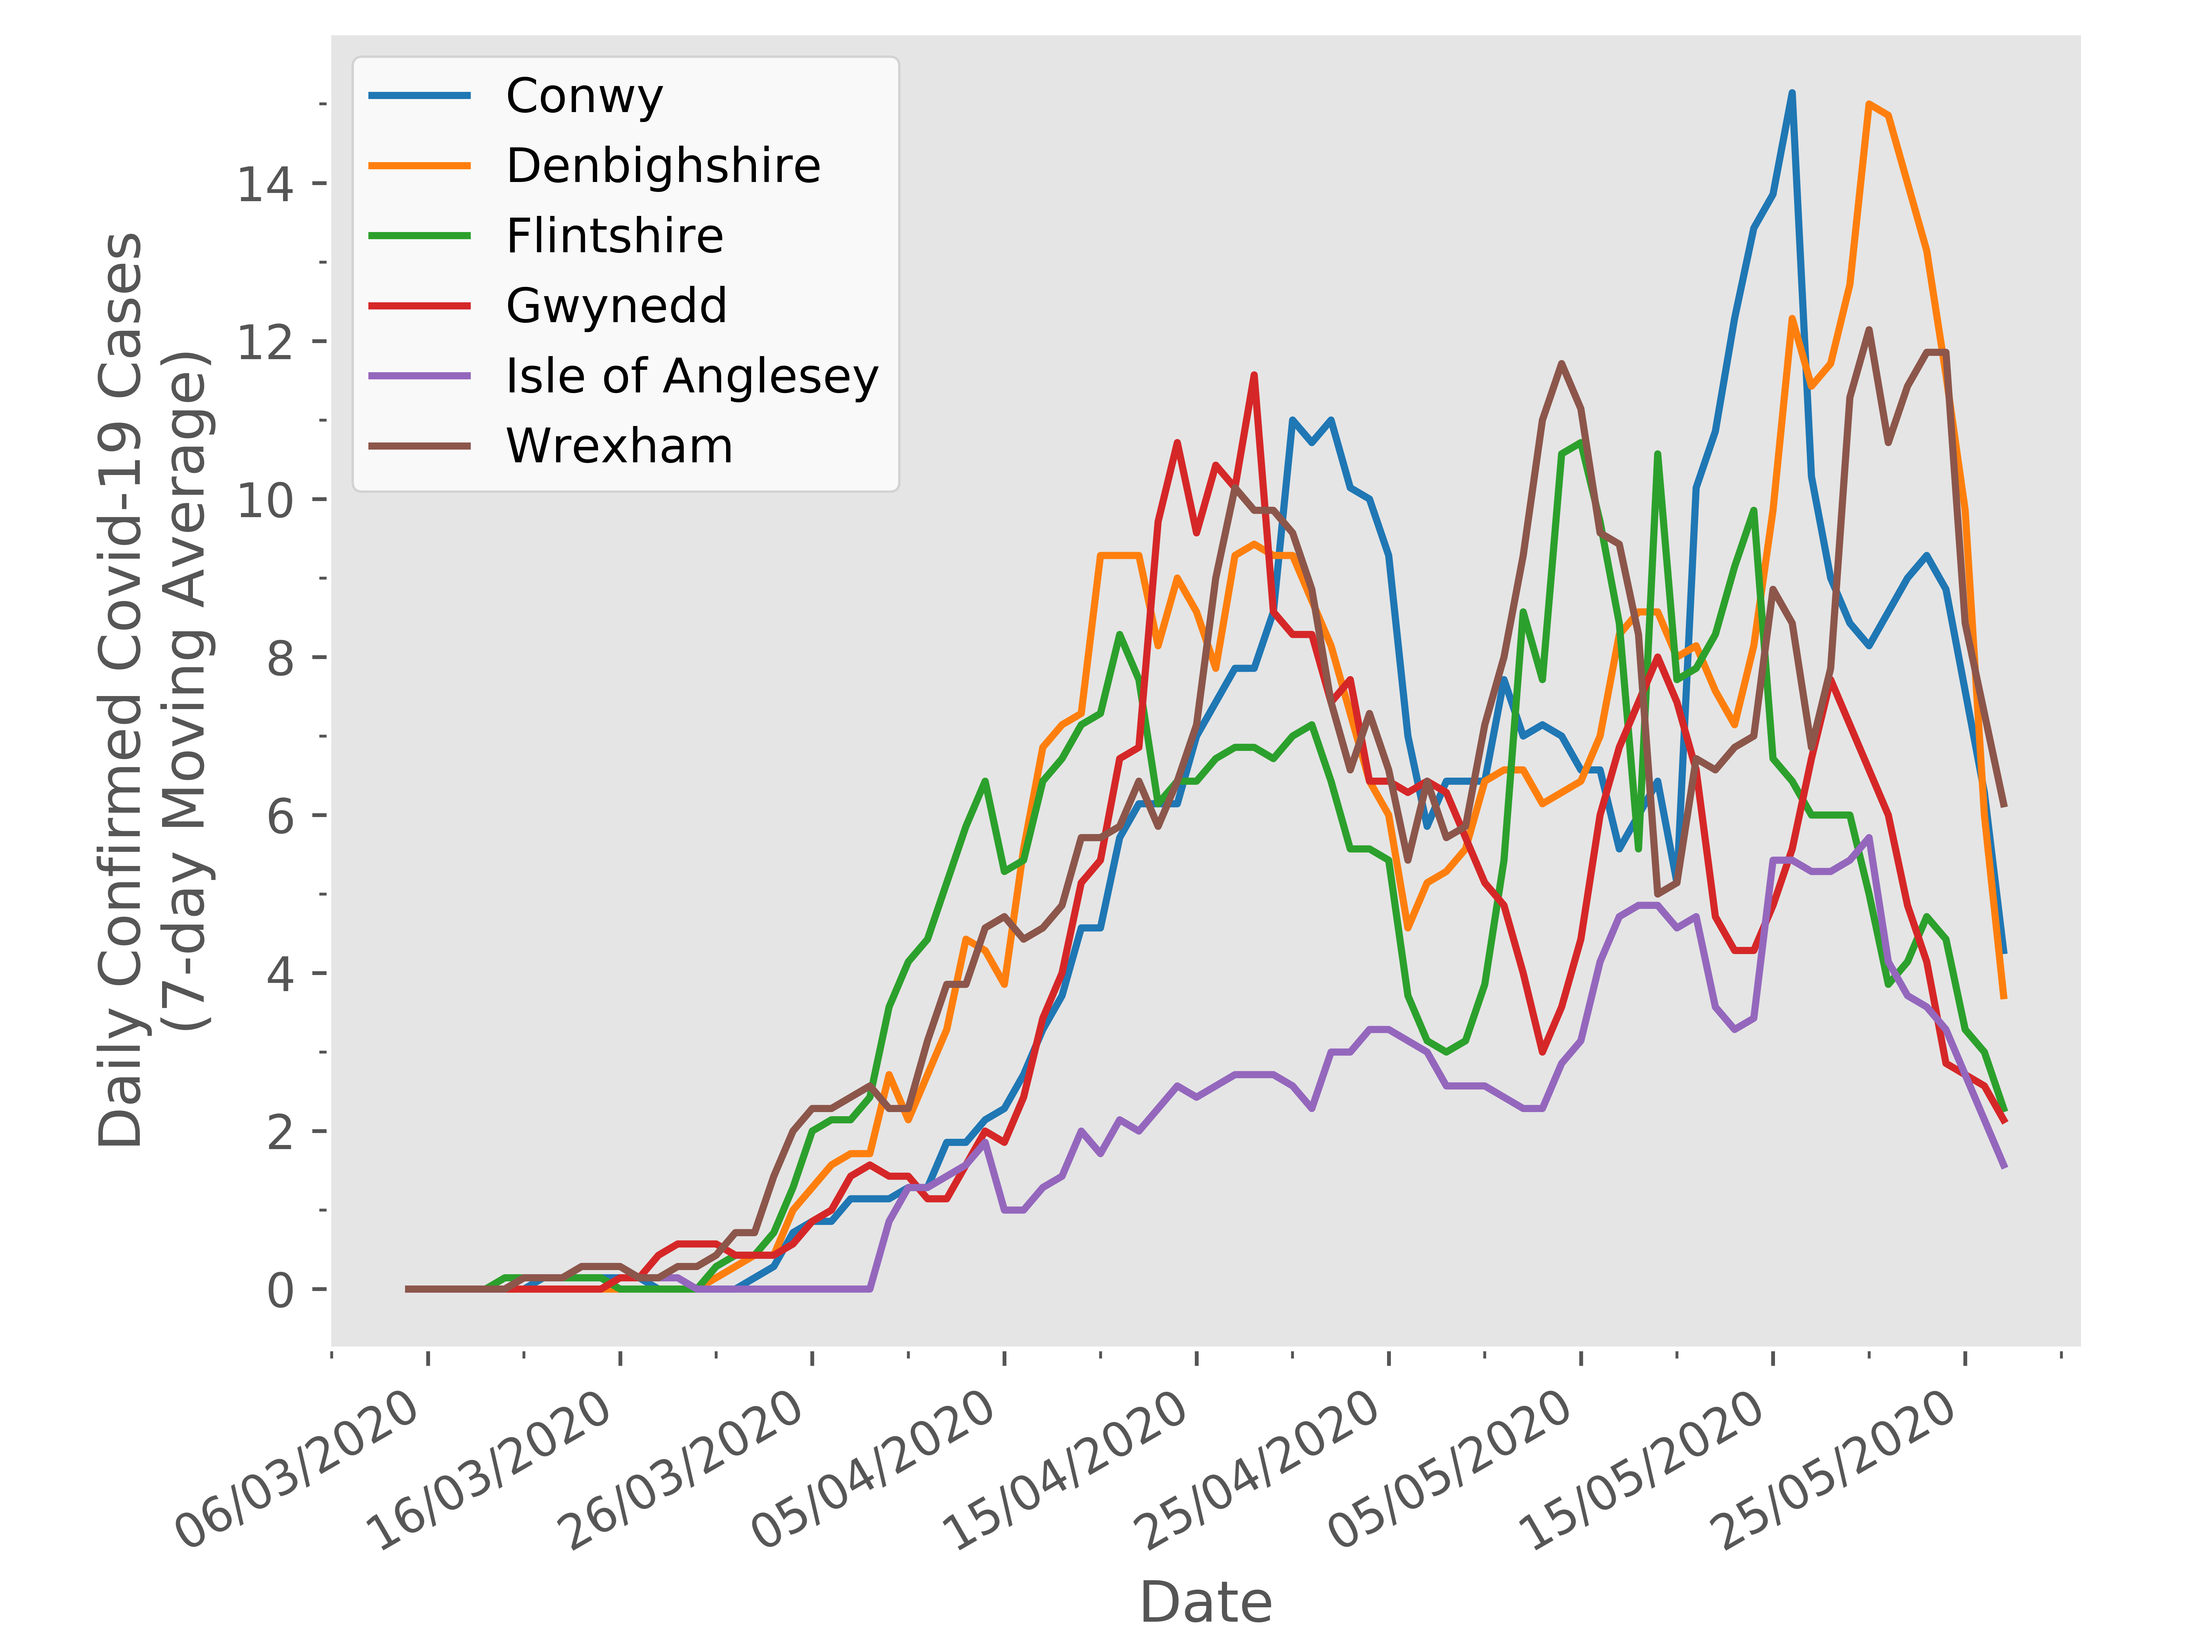
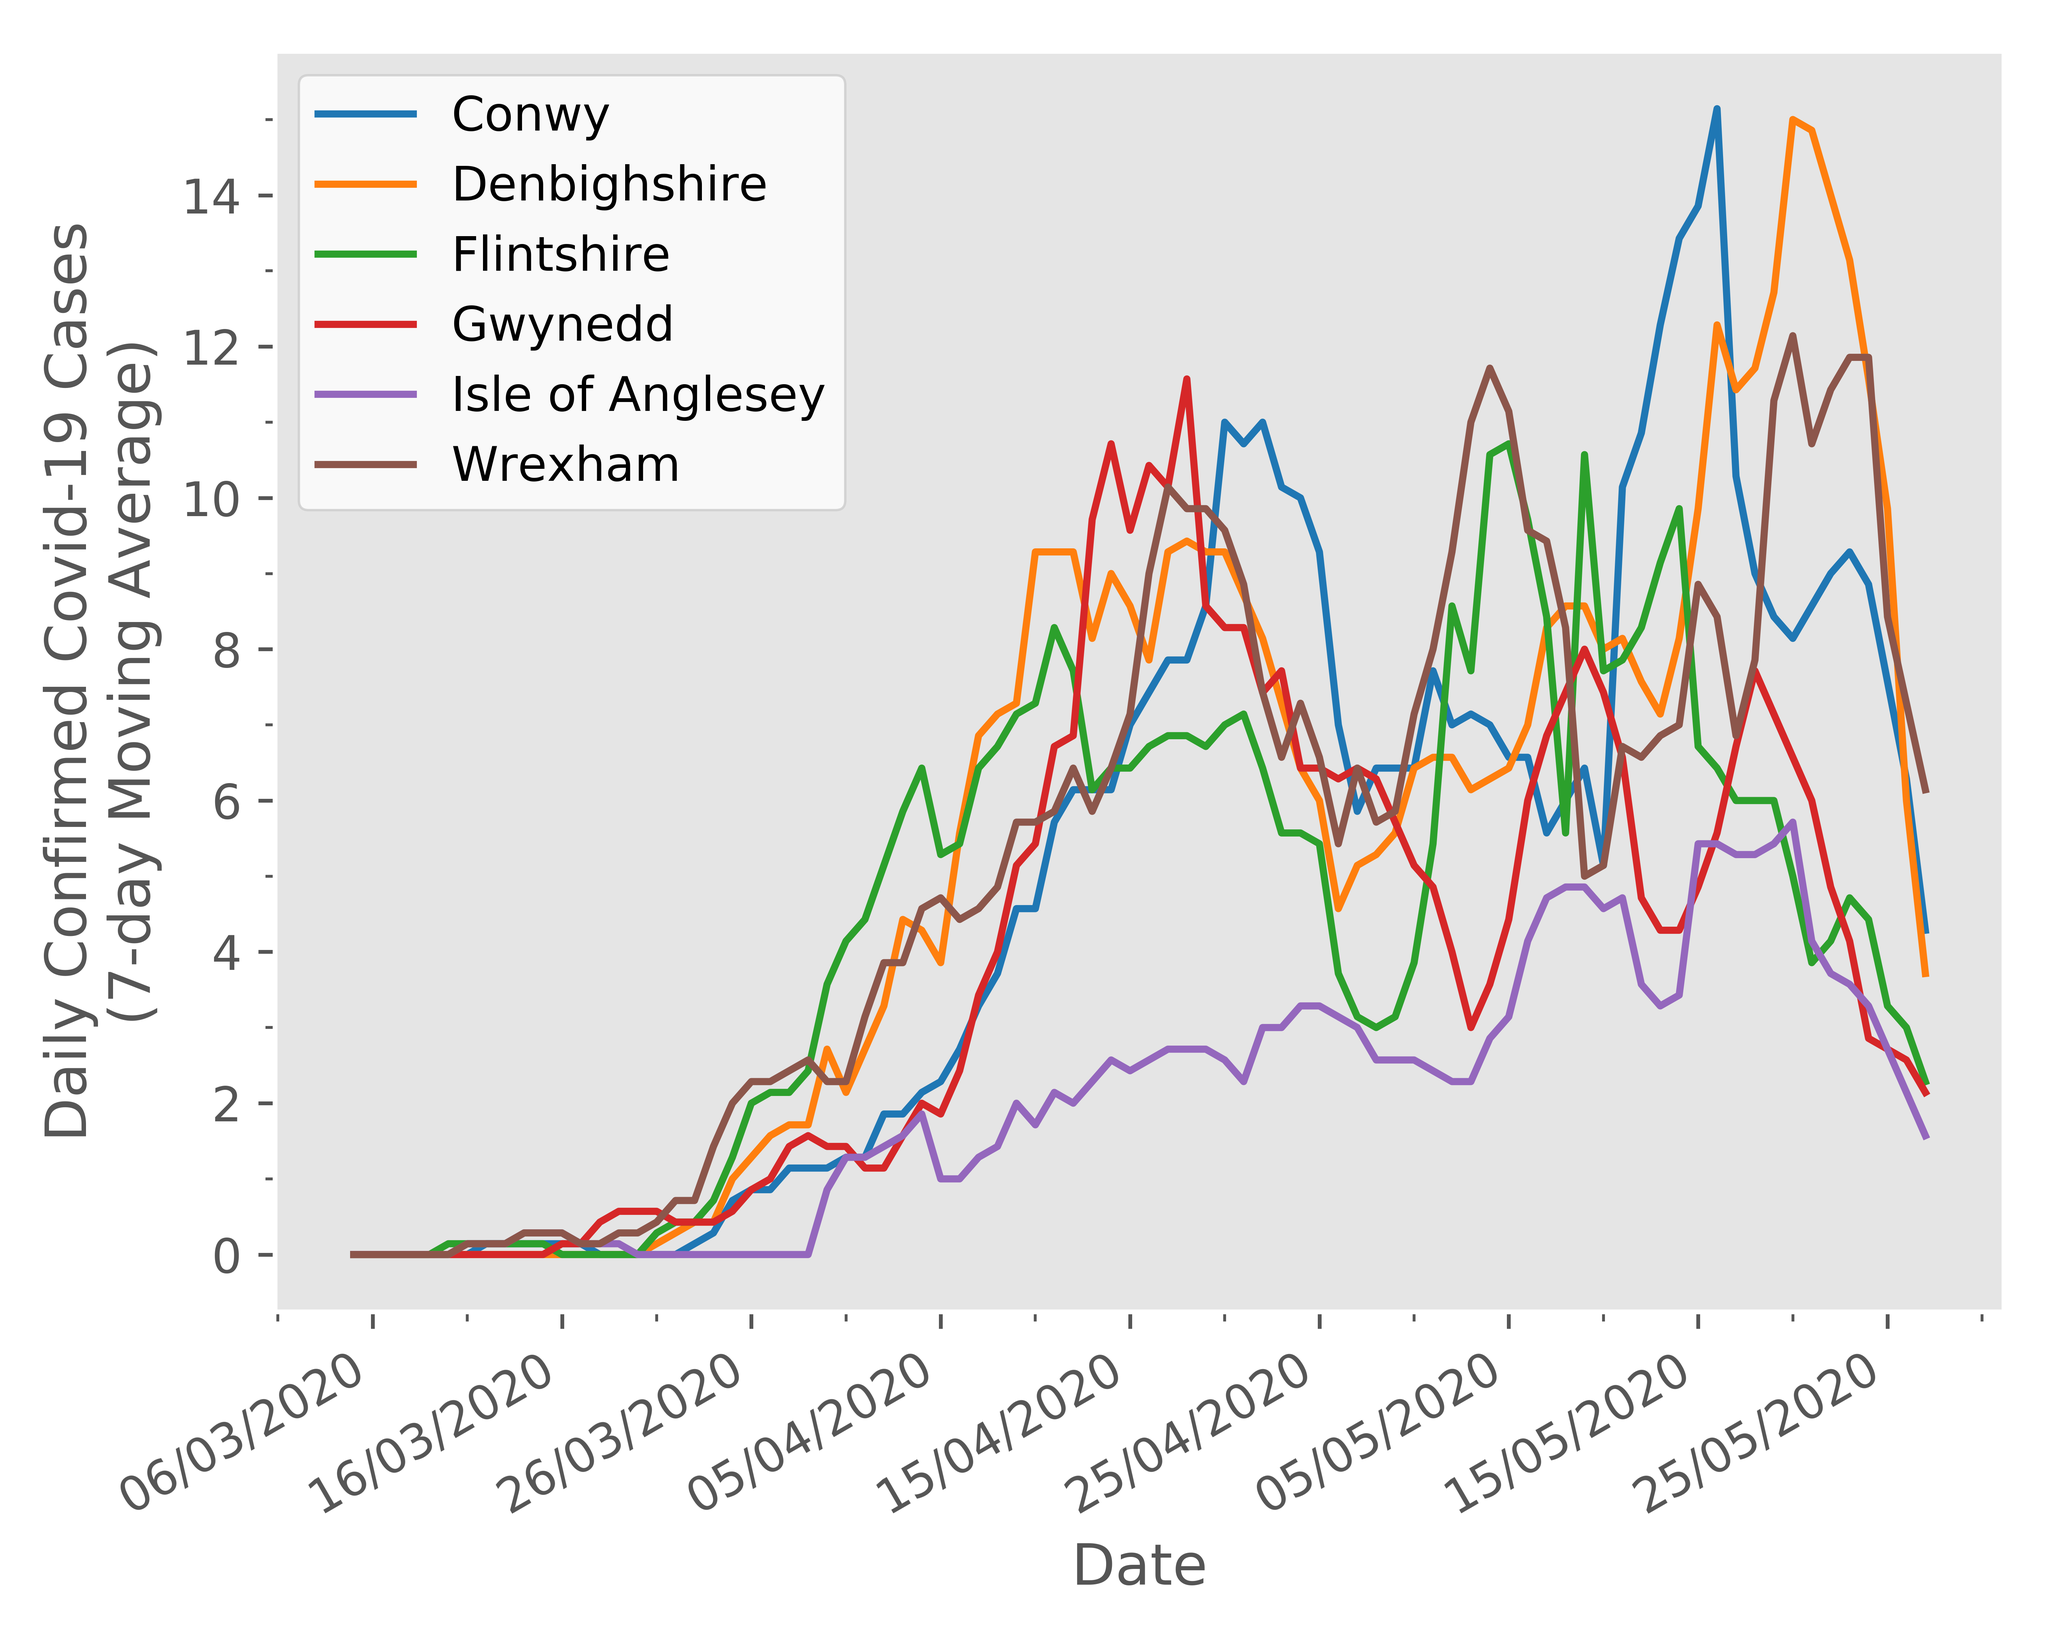
Added some files

Changed region(s): [[0.0312, 0.0, 0.9975, 1.0], [0.7793, 0.9062, 0.8105, 0.9375]]

diff --git a/covid_n_wales/index.htm b/covid_n_wales/index.htm
@@ -64,6 +64,8 @@
         <br/>
         <img src="covid_n_wales.png" />
         <br/><br/>
+        <img src="covid_n_wales_separated.png" />
+        <br/><br/>
         Data accurate as of <span>27 May 2020 13:00</span>.
     </body>
 </html>

diff --git a/covid_n_wales/covid_n_wales_separated.py b/covid_n_wales/covid_n_wales_separated.py
@@ -1,0 +1,163 @@
+# excel file link: http://www2.nphs.wales.nhs.uk:8080/CommunitySurveillanceDocs.nsf/3dc04669c9e1eaa880257062003b246b/77fdb9a33544aee88025855100300cab/$FILE/Rapid%20COVID-19%20surveillance%20data.xlsx
+import pandas as pd
+import matplotlib.pyplot as plt
+import numpy as np
+import matplotlib.cm
+import matplotlib.dates as mdates
+from matplotlib.ticker import (MultipleLocator, FormatStrFormatter,
+                               AutoMinorLocator)
+from matplotlib.figure import figaspect
+
+import requests
+import re
+
+# Download Excel file
+filedata = requests.get('http://www2.nphs.wales.nhs.uk:8080/CommunitySurveillanceDocs.nsf/3dc04669c9e1eaa880257062003b246b/77fdb9a33544aee88025855100300cab/$FILE/Rapid%20COVID-19%20surveillance%20data.xlsx')
+
+# Write to Excel file
+with open('Rapid COVID-19 surveillance data.xlsx', 'wb') as f:
+    f.write(filedata.content)
+
+# Set plot style
+plt.style.use("ggplot")
+
+# Get colormap
+cmap = matplotlib.cm.get_cmap('tab10')
+
+# Open Excel data file
+xl = pd.ExcelFile("Rapid COVID-19 surveillance data.xlsx")
+
+# Isolate relevant sheet from Excel file
+df = xl.parse("Tests by specimen date")
+
+# List of counties in North Wales
+county_list = ["Conwy", "Denbighshire", "Flintshire", "Gwynedd", "Isle of Anglesey", "Wrexham"]
+
+fig = plt.figure(dpi=1000)
+w, h = figaspect(0.5)
+
+plt.subplots(figsize=(w,h))
+plt.subplot(1,2,1)
+#frame1=fig.add_axes((.15,.18,.8,.8))
+# Iterate through half the counties
+for i in range(3):
+    # Get name of county
+    county_name = county_list[i]
+
+    # Extract county data from sheet
+    county = df[df["Local Authority"] == county_name]
+
+    # Extract data
+    date = county["Specimen date"]
+    new_cases = county["Cases (new)"]
+
+    moving_average = np.zeros(len(new_cases)-7)
+    
+    # Calculate 7-day moving average
+    for j in range(5,len(new_cases)-1):
+        moving_average[j-6] = sum(new_cases[j-6:j])/7
+
+    # Plot the data
+    plt.plot(date[:-7-15], moving_average[:-15], label=county_name, color=cmap(i))
+
+ax = plt.gca()
+
+# Remove gridlines
+ax.grid(False)
+
+# Set tick positions
+ax.tick_params(which="major", direction='out', left=True, right=False)
+ax.tick_params(which="minor", direction='out', left=True, right=False)
+ax.tick_params(which="major", direction='out', top=False, bottom=True)
+ax.tick_params(which="minor", direction='out', top=False, bottom=True)
+ax.xaxis.set_minor_locator(MultipleLocator(5))
+ax.xaxis.set_major_locator(MultipleLocator(10))
+ax.yaxis.set_minor_locator(MultipleLocator(1))
+
+plt.gcf().autofmt_xdate()
+
+# Format date
+myFmt = mdates.DateFormatter('%d/%m/%Y')
+ax.xaxis.set_major_formatter(myFmt)
+
+# Add axis labels
+plt.ylabel("Daily Confirmed Covid-19 Cases\n(7-day Moving Average)")
+plt.xlabel("Date")
+
+# Add legend
+plt.legend(facecolor="white")
+
+# Plot rest of counties
+plt.subplot(1,2,2)
+#frame1=fig.add_axes((.15,.18,.8,.8))
+# Iterate through other half of the counties
+for i in range(3,6):
+    # Get name of county
+    county_name = county_list[i]
+
+    # Extract county data from sheet
+    county = df[df["Local Authority"] == county_name]
+
+    # Extract data
+    date = county["Specimen date"]
+    new_cases = county["Cases (new)"]
+
+    moving_average = np.zeros(len(new_cases)-7)
+    
+    # Calculate 7-day moving average
+    for j in range(5,len(new_cases)-1):
+        moving_average[j-6] = sum(new_cases[j-6:j])/7
+
+    # Plot the data
+    plt.plot(date[:-7-15], moving_average[:-15], label=county_name, color=cmap(i))
+
+ax = plt.gca()
+
+# Remove gridlines
+ax.grid(False)
+
+# Set tick positions
+ax.tick_params(which="major", direction='out', left=True, right=False)
+ax.tick_params(which="minor", direction='out', left=True, right=False)
+ax.tick_params(which="major", direction='out', top=False, bottom=True)
+ax.tick_params(which="minor", direction='out', top=False, bottom=True)
+ax.xaxis.set_minor_locator(MultipleLocator(5))
+ax.xaxis.set_major_locator(MultipleLocator(10))
+ax.yaxis.set_minor_locator(MultipleLocator(1))
+
+plt.gcf().autofmt_xdate()
+
+# Format date
+myFmt = mdates.DateFormatter('%d/%m/%Y')
+ax.xaxis.set_major_formatter(myFmt)
+
+# Add axis labels
+plt.ylabel("Daily Confirmed Covid-19 Cases\n(7-day Moving Average)")
+plt.xlabel("Date")
+
+# Add legend
+plt.legend(facecolor="white")
+plt.tight_layout()
+
+# Save figure to png file
+plt.draw()
+plt.savefig("covid_n_wales_separated.png", dpi=1000)
+
+# Get first sheet
+contents = xl.parse("Contents")
+
+# Find when cases were last updated
+case_update = contents.iloc[5,4]
+
+# Open index.htm
+with open("index.htm", "r") as f:
+    page = f.read()
+
+# Update information
+modified_page = re.sub(r"<span>.*</span>", r"<span>"+case_update+"</span>", page)
+
+# Open index.htm
+with open("index.htm", "w") as f:
+    f.write(modified_page)
+    
+

diff --git a/covid_n_wales/covid_n_wales.py b/covid_n_wales/covid_n_wales.py
@@ -6,16 +6,16 @@ import matplotlib.cm
 import matplotlib.dates as mdates
 from matplotlib.ticker import (MultipleLocator, FormatStrFormatter,
                                AutoMinorLocator)
-import urllib.request
+from matplotlib.figure import figaspect
+import requests
 import re
 
 # Download Excel file
-with urllib.request.urlopen('http://www2.nphs.wales.nhs.uk:8080/CommunitySurveillanceDocs.nsf/3dc04669c9e1eaa880257062003b246b/77fdb9a33544aee88025855100300cab/$FILE/Rapid%20COVID-19%20surveillance%20data.xlsx') as response:
-    filedata = response.read()
+filedata = requests.get('http://www2.nphs.wales.nhs.uk:8080/CommunitySurveillanceDocs.nsf/3dc04669c9e1eaa880257062003b246b/77fdb9a33544aee88025855100300cab/$FILE/Rapid%20COVID-19%20surveillance%20data.xlsx')
 
 # Write to Excel file
 with open('Rapid COVID-19 surveillance data.xlsx', 'wb') as f:
-    f.write(filedata)
+    f.write(filedata.content)
 
 # Set plot style
 plt.style.use("ggplot")
@@ -33,7 +33,10 @@ df = xl.parse("Tests by specimen date")
 county_list = ["Conwy", "Denbighshire", "Flintshire", "Gwynedd", "Isle of Anglesey", "Wrexham"]
 
 fig = plt.figure(dpi=1000)
-frame1=fig.add_axes((.15,.18,.8,.8))
+w, h = figaspect(0.8)
+plt.subplots(figsize=(w,h))
+plt.subplot(1,1,1)
+#frame1=fig.add_axes((.15,.18,.8,.8))
 # Iterate through all counties
 for i in range(len(county_list)):
     # Get name of county
@@ -83,7 +86,8 @@ plt.xlabel("Date")
 plt.legend(facecolor="white")
 
 # Save figure to png file
-plt.savefig("covid_n_wales.png")
+plt.tight_layout()
+plt.savefig("covid_n_wales.png",dpi=1000)
 
 # Get first sheet
 contents = xl.parse("Contents")
